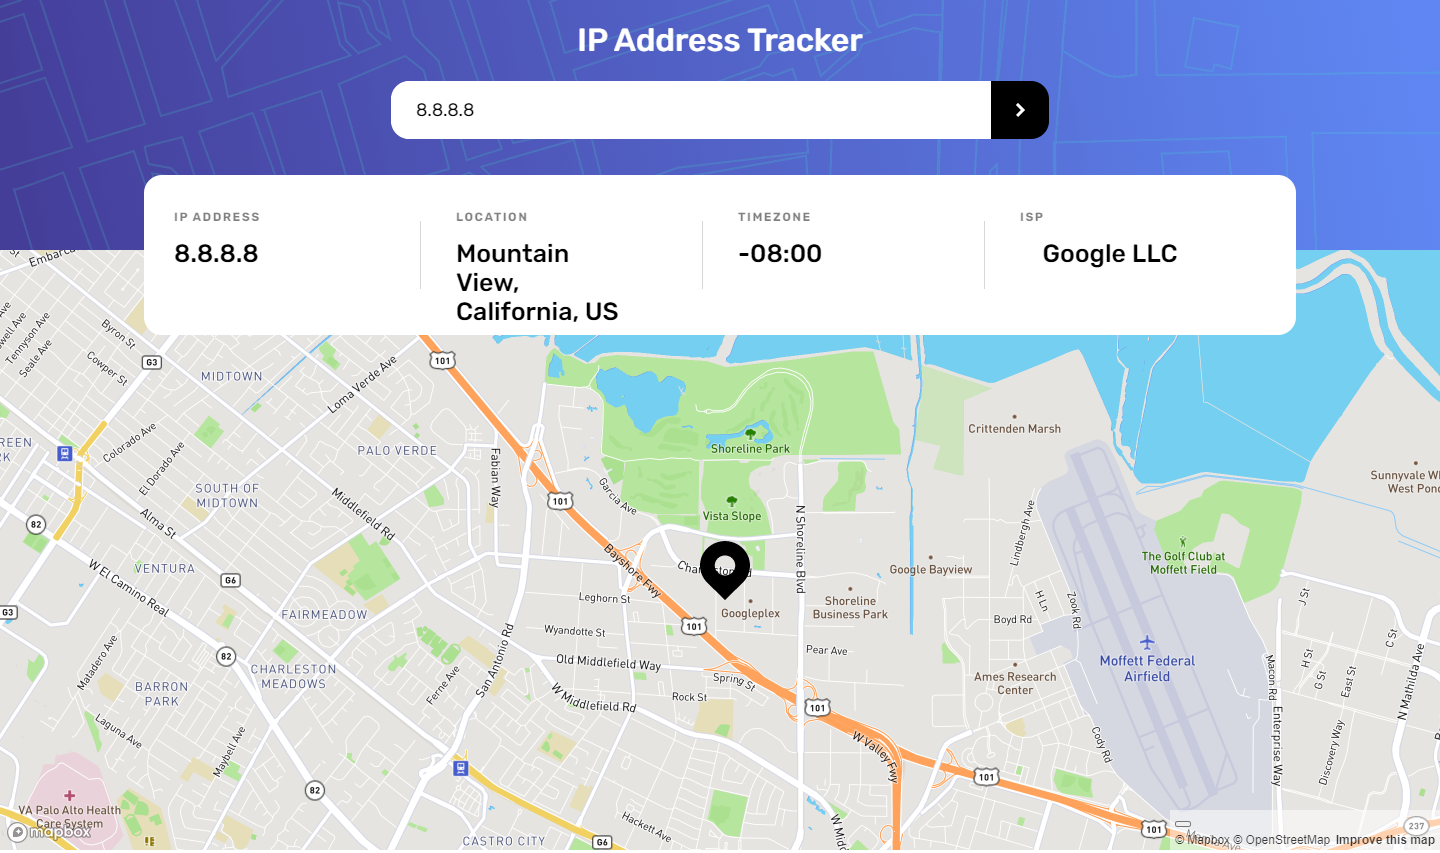
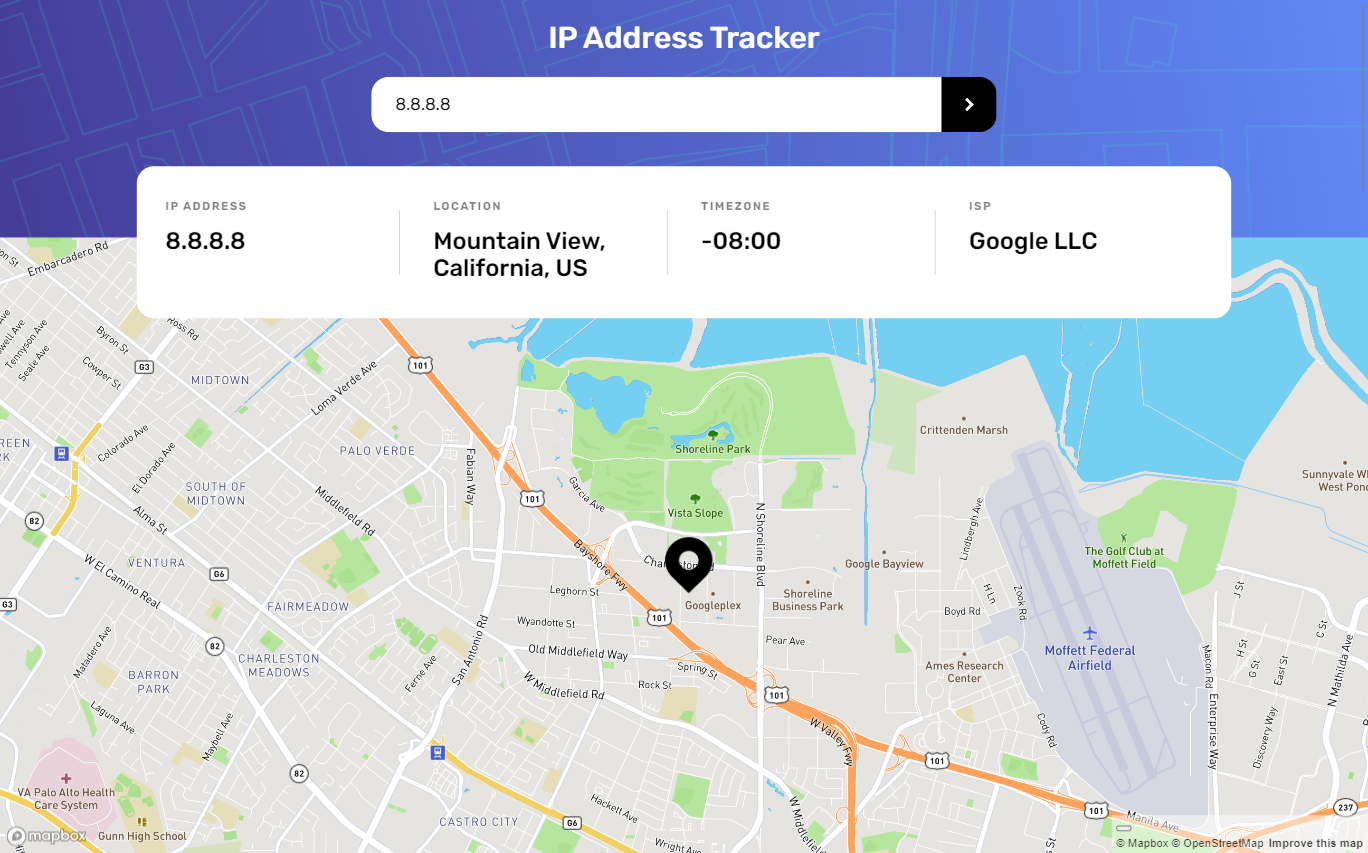
fixed desktop screenshot

diff --git a/styles/Home.module.css b/styles/Home.module.css
@@ -34,7 +34,7 @@
 
 .bottomPanel {
   background-color: black;
-  height: 600px;
+  height: 648px;
   width: 1440px;
   z-index: -1;
 }
@@ -104,7 +104,7 @@ button.searchButton:active {
 
 .result {
   font-size: 25px;
-  width: 180px;
+  width: 200px;
 }
 
 .divider {
